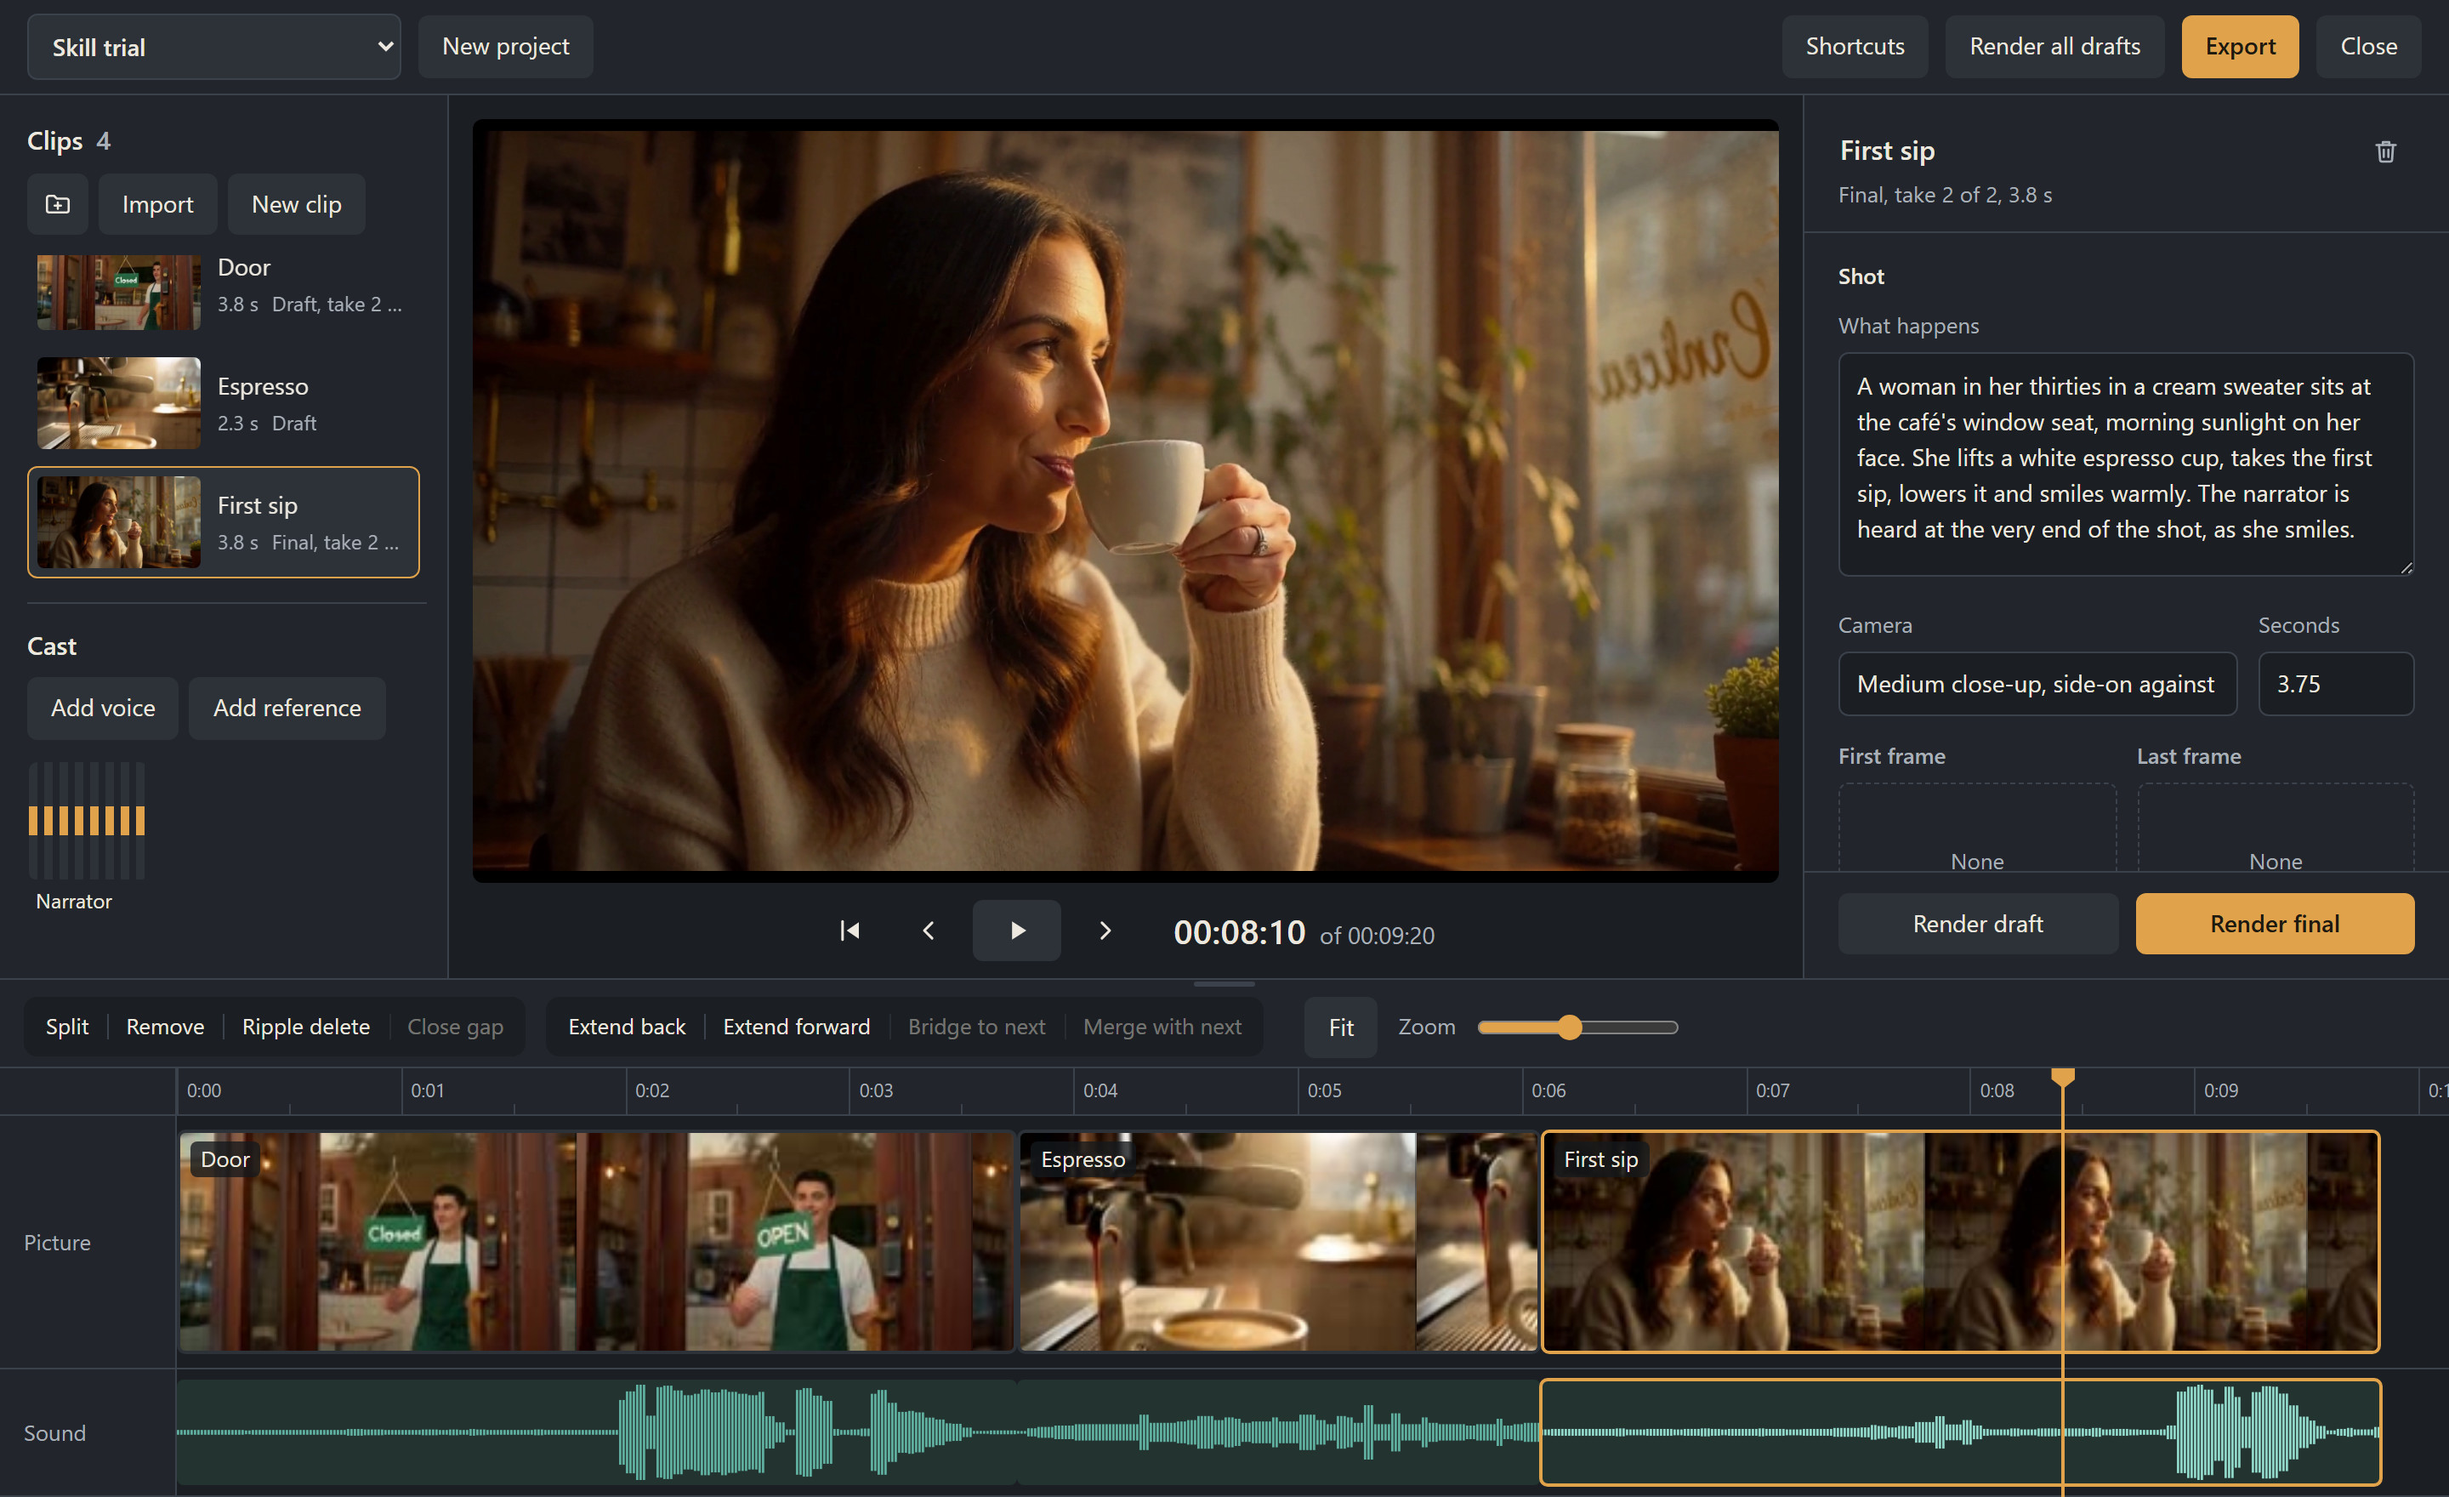
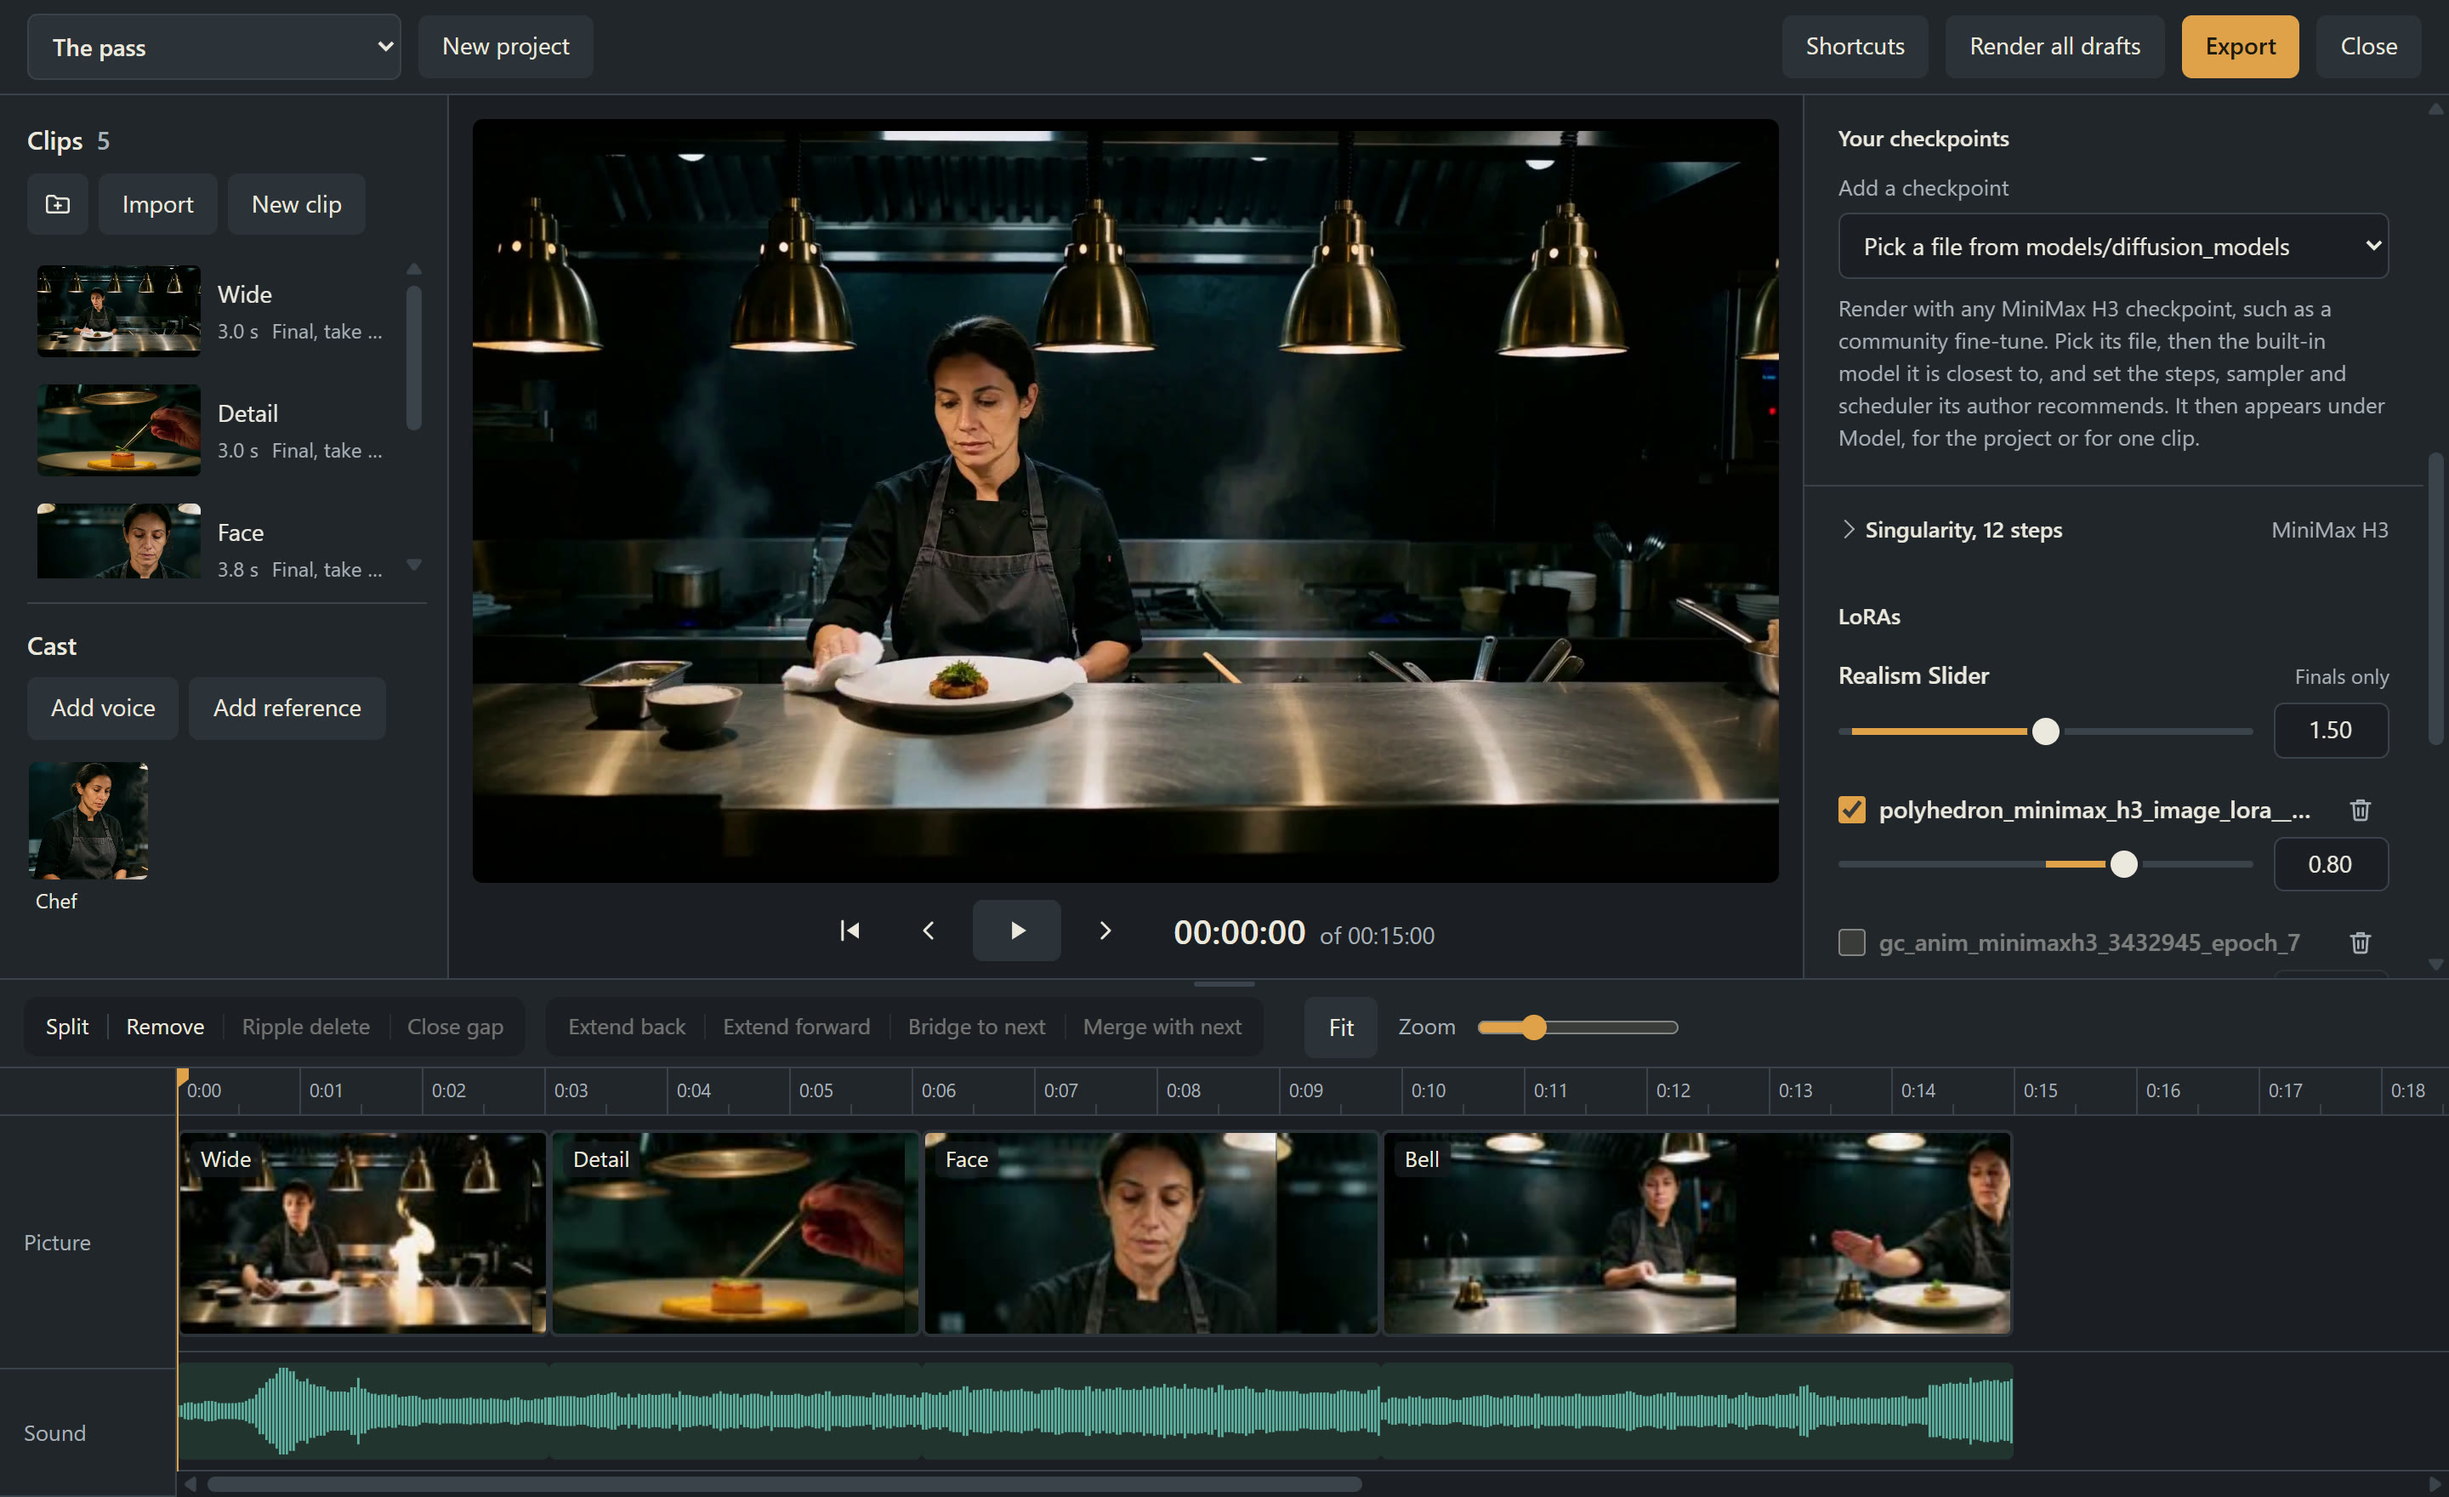
Show models and LoRAs on the site, with a new editor screenshot
- The page lists bringing your own models and LoRAs among what the
  editor does, and its Models section says any H3 checkpoint file can be
  added with its own steps, sampler and scheduler.
- llms.txt describes what the models page now covers.
- The editor screenshot shows the kitchen scene with a project
  checkpoint and the LoRA sliders, in place of the café project.
- A long LoRA file name no longer widens the editor's panel.

diff --git a/docs/index.html b/docs/index.html
@@ -153,6 +153,11 @@
         <p class="ctls"><span class="ctl">Render draft</span><span class="ctl">Render final</span></p>
       </li>
       <li>
+        <h3>Bring your own models and LoRAs.</h3>
+        <p>Six H3 models are built in, and any other H3 checkpoint works with its own steps, sampler and scheduler, for the whole project or for one clip. Add LoRAs and set each one's strength with a slider.</p>
+        <p class="ctls"><span class="ctl">Model</span><span class="ctl">Your checkpoints</span><span class="ctl">LoRAs</span></p>
+      </li>
+      <li>
         <h3>Generate to a recorded voice.</h3>
         <p>Give a clip a recorded track, such as an approved narration, and its picture is generated to it. Extend forward carries on with the next part of the same track.</p>
         <p class="ctls"><span class="ctl">Track</span></p>
@@ -164,8 +169,8 @@
       </li>
     </ul>
     <figure class="shot">
-      <img src="images/editor.jpg" width="2880" height="1760" loading="lazy" alt="The editor with the café teaser open: clips and cast on the left, the viewer in the middle, the selected shot's fields on the right, and the three clips with their sound on the timeline below.">
-      <figcaption>The whole editor, on one screen: clips and cast, the viewer, the shot you are writing, and the timeline. It opens from ComfyUI's sidebar and needs no other custom node pack.</figcaption>
+      <img src="images/editor.jpg" width="2880" height="1760" loading="lazy" alt="The editor with a kitchen scene open: clips and cast on the left, the viewer in the middle, the project's own checkpoint and its LoRAs with strength sliders on the right, and four clips with their sound on the timeline below.">
+      <figcaption>The whole editor, on one screen: clips and cast, the viewer, the project's models and LoRAs, and the timeline. It opens from ComfyUI's sidebar and needs no other custom node pack.</figcaption>
     </figure>
   </section>
 
@@ -210,7 +215,7 @@
             <tr><td data-label="File"><code>taeh3.safetensors</code><span class="for">The moving live preview</span></td><td data-label="Folder"><code>models/<wbr>vae_approx</code></td><td data-label="Size" class="num">23 MB</td><td data-label="From"><a href="https://huggingface.co/OzzyGT/taeh3">OzzyGT/taeh3</a></td></tr>
           </tbody>
         </table>
-        <p class="small">Other H3 checkpoints work as well. <a href="https://github.com/igorls/comfyui-h3-editor/blob/main/docs/models.md">Models and quality</a> lists every one the editor can render with.</p>
+        <p class="small">Other H3 checkpoints work as well. Five more are built in, and you can add any H3 checkpoint file with its own steps, sampler and scheduler, and LoRAs trained on H3. <a href="https://github.com/igorls/comfyui-h3-editor/blob/main/docs/models.md">Models and quality</a> has the details.</p>
       </li>
 
       <li>

diff --git a/editor/editor.css b/editor/editor.css
@@ -188,7 +188,7 @@ details.section > summary .filled { margin-left: auto; color: var(--muted); font
 .halves { display: grid; grid-template-columns: 1fr 1fr; gap: 10px; }
 .choice select { width: 100%; min-width: 0; padding: 8px 10px; background: var(--room); border: 1px solid var(--line); border-radius: var(--radius); }
 .choice select:hover { border-color: #4b535d; }
-.loras { display: grid; gap: 14px; margin-bottom: 16px; }
+.loras { display: grid; grid-template-columns: minmax(0, 1fr); gap: 14px; margin-bottom: 16px; }
 .lora-head { display: flex; align-items: center; gap: 8px; min-height: 32px; }
 .lora-name { flex: 1; min-width: 0; display: flex; align-items: center; gap: 8px; font-weight: 500; }
 .lora-name span, span.lora-name { overflow: hidden; white-space: nowrap; text-overflow: ellipsis; }

diff --git a/README.md b/README.md
@@ -6,7 +6,7 @@ render them on your own GPU, and cut them together, picture and sound.
 **[Project site](https://igorls.github.io/comfyui-h3-editor/)**: watch a cut
 made with it, shot by shot.
 
-![H3 Editor: the clips, the viewer, the selected shot's prompt, and a three-shot cut with its sound on the timeline](docs/images/editor.jpg)
+![H3 Editor: the clips, the viewer, the project's checkpoint and LoRA sliders, and a four-shot cut with its sound on the timeline](docs/images/editor.jpg)
 
 ## What you can do
 
